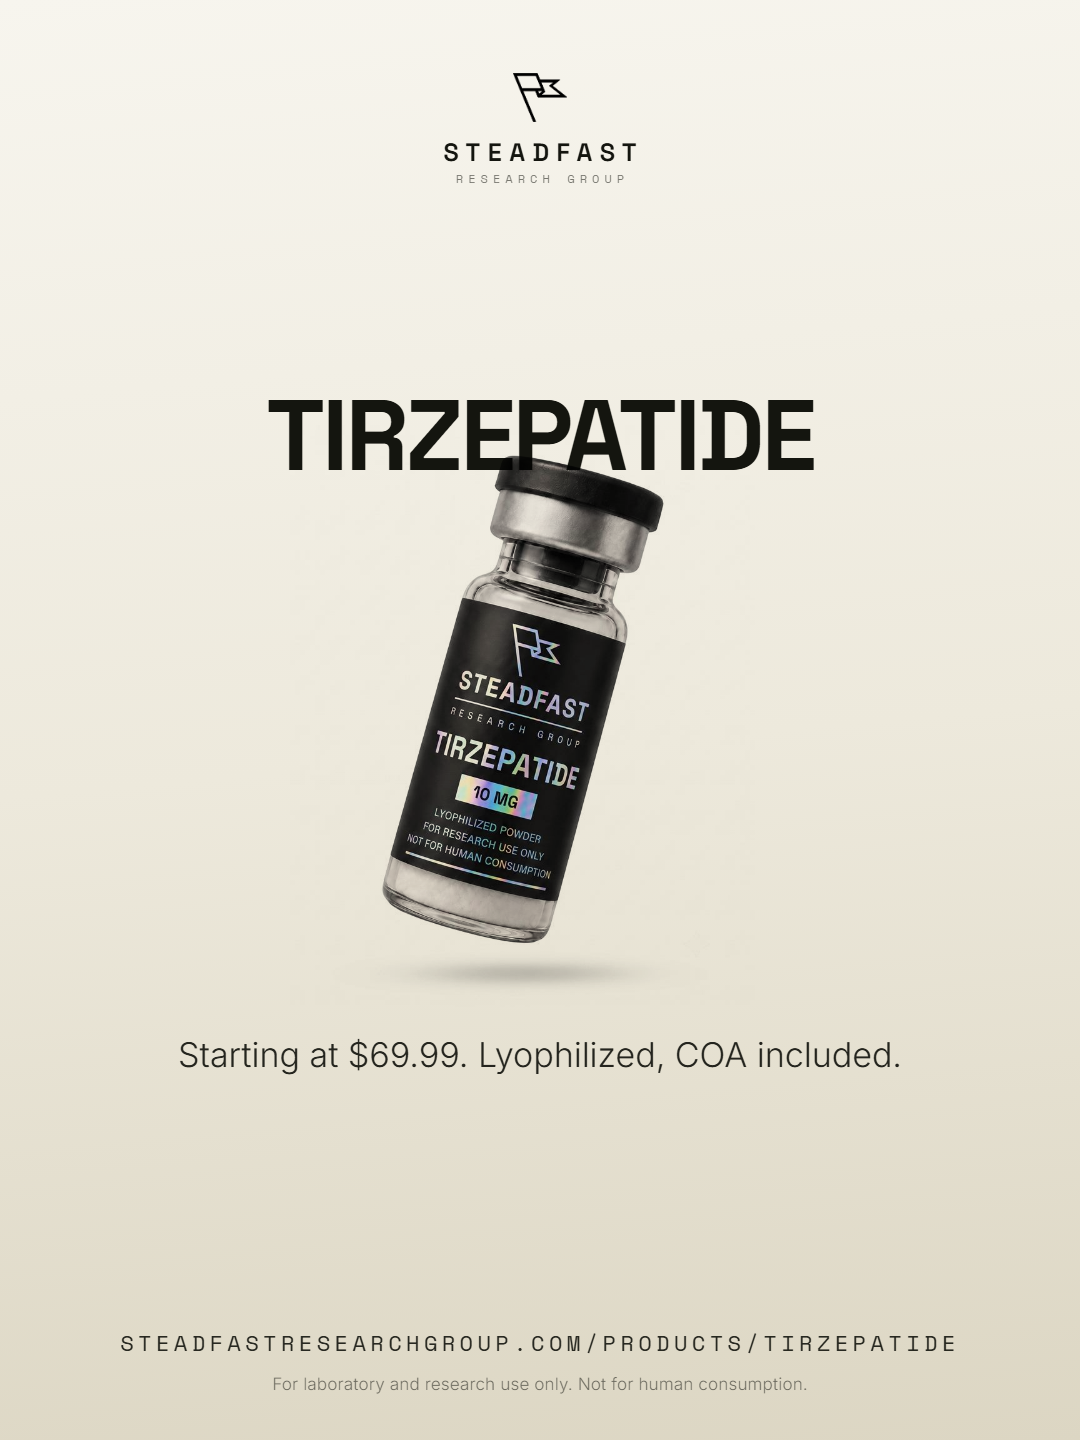
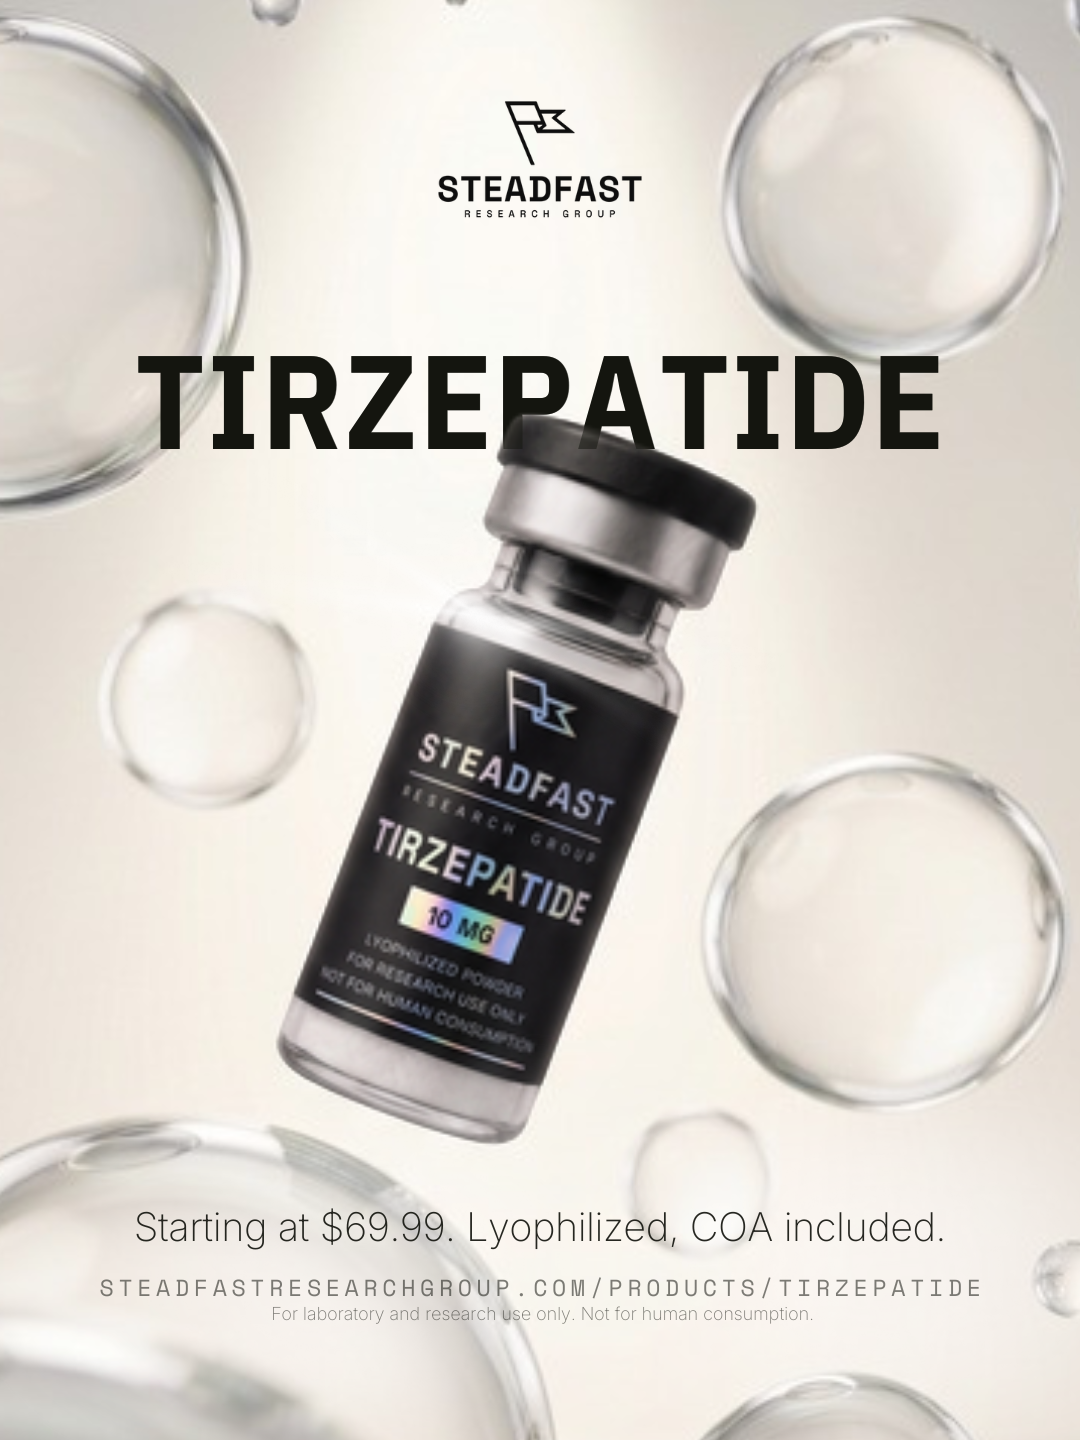
All ads Canva-mastered: R01-R05 + S01-S04 fresh Canva exports, every card shows the finished artwork

diff --git a/ads/pack.js b/ads/pack.js
@@ -151,9 +151,9 @@ var T = {
    ------------------------------------------------------------------------- */
 var FEED = [
 {
-  id:'R01', slug:'real-peptides', name:'Real peptides', palette:'field', tpl:'hero', safe:'paid',
+  id:'R01', slug:'real-peptides', name:'Real peptides', palette:'field', tpl:'img', safe:'paid',
   basedOn:'Enhanced — “REAL PEPTIDES / No gray market. No compromise.”',
-  art:{ hl:'Real<br>peptides.',
+  art:{ img:'exports/srg-ad01-r01-real-peptides-1080x1440.png', hl:'Real<br>peptides.',
         dek:'No gray market. No compromise.',
         vial:'srg-prod-bb10.jpg', url:'steadfastresearchgroup.com' },
   score:['Stops the scroll','Says it out loud'],
@@ -167,9 +167,9 @@ var FEED = [
   spec:'Modeled on the Enhanced ad: cream ground, giant headline, vial crossing the type. BPC blend vial per Blake&rsquo;s note to lead with the BPC label.'
 },
 {
-  id:'R02', slug:'uncompromising-purity', name:'Uncompromising purity', palette:'field', tpl:'duo', safe:'paid',
+  id:'R02', slug:'uncompromising-purity', name:'Uncompromising purity', palette:'field', tpl:'img', safe:'paid',
   basedOn:'Sunday — “Uncompromising Purity” two-vial hero',
-  art:{ hl:'Uncompromising<br>purity.',
+  art:{ img:'exports/srg-ad01-r02-uncompromising-purity-1080x1440.png', hl:'Uncompromising<br>purity.',
         cells:[['srg-prod-bb10.jpg','BPC-157 / TB-500',''],['srg-prod-cu50.jpg','GHK-CU','']],
         url:'steadfastresearchgroup.com' },
   score:['Stops the scroll','Screenshot-worthy'],
@@ -183,9 +183,9 @@ var FEED = [
   spec:'Modeled on the Sunday ad: two vials leaning together under a two-word headline. Names only under the glass, no prices — Sunday keeps it quiet.'
 },
 {
-  id:'R03', slug:'ten-off-sitewide', name:'10% off sitewide', palette:'carbon', tpl:'text', safe:'paid',
+  id:'R03', slug:'ten-off-sitewide', name:'10% off sitewide', palette:'carbon', tpl:'img', safe:'paid',
   basedOn:'Onyx Research — “20% OFF SITEWIDE / USE ONYX20”',
-  art:{ hl:'10% off<br>sitewide.',
+  art:{ img:'exports/srg-ad01-r03-ten-off-sitewide-1080x1440.png', hl:'10% off<br>sitewide.',
         dek:'High-quality research compounds. Fast, secure shipping across the U.S.',
         code:'USE STEADFAST10', url:'steadfastresearchgroup.com/products' },
   score:['Says it out loud'],
@@ -199,9 +199,9 @@ var FEED = [
   spec:'Modeled on the Onyx ad: dark ground, offer as the headline, code in a chip. Caption opens on Onyx&rsquo;s own &ldquo;Research, sourced right&rdquo; cadence.'
 },
 {
-  id:'R04', slug:'tirzepatide-price', name:'Tirzepatide, priced', palette:'field', tpl:'hero', safe:'paid',
+  id:'R04', slug:'tirzepatide-price', name:'Tirzepatide, priced', palette:'field', tpl:'img', safe:'paid',
   basedOn:'Brello — compound name huge + “plan starting at $166/month”',
-  art:{ hl:'Tirzepatide',
+  art:{ img:'exports/srg-ad01-r04-tirzepatide-price-1080x1440.png', hl:'Tirzepatide',
         dek:'Starting at $69.99. Lyophilized, COA included.',
         vial:'srg-prod-tr10.jpg', url:'steadfastresearchgroup.com/products/tirzepatide' },
   score:['Stops the scroll'],
@@ -215,9 +215,9 @@ var FEED = [
   spec:'Modeled on the Brello ad: compound name as the headline with the vial crossing it, price as the supporting line. RUO framing replaces Brello&rsquo;s telehealth plan language.'
 },
 {
-  id:'R05', slug:'quality-consistency', name:'Quality meets consistency', palette:'field', tpl:'hero', safe:'paid',
+  id:'R05', slug:'quality-consistency', name:'Quality meets consistency', palette:'field', tpl:'img', safe:'paid',
   basedOn:'Alpha Omega Peptide — “Where Quality Meets Consistency”',
-  art:{ hl:'Where quality<br>meets consistency.', hlSize:'sm',
+  art:{ img:'exports/srg-ad01-r05-quality-consistency-1080x1440.png', hl:'Where quality<br>meets consistency.', hlSize:'sm',
         dek:'Research peptides with a certificate of analysis on every lot.',
         vial:'srg-prod-hgh10.jpg', url:'steadfastresearchgroup.com' },
   score:['Says it out loud'],
@@ -255,8 +255,8 @@ var FEED = [
    ------------------------------------------------------------------------- */
 var STORIES = [
 {
-  id:'S01', slug:'fill-accuracy-story', name:'Fill accuracy, vertical', palette:'field', tpl:'metric', safe:'paid',
-  art:{ kick:'BPC-157 &middot; #151664', pre:'Label says <span class="strike">10 MG</span>', big:'10.23',
+  id:'S01', slug:'fill-accuracy-story', name:'Fill accuracy, vertical', palette:'field', tpl:'img', safe:'paid',
+  art:{ img:'exports/srg-ad01-s01-fill-accuracy-story-1080x1920.png', kick:'BPC-157 &middot; #151664', pre:'Label says <span class="strike">10 MG</span>', big:'10.23',
         bigsub:'Milligrams measured', dek:'We publish both. Even when the second number is lower.',
         vial:'srg-prod-bb10.jpg', url:'Swipe up &middot; /coa' },
   score:['Stops the scroll','Screenshot-worthy','New in the brain'],
@@ -270,8 +270,8 @@ var STORIES = [
   spec:'Same file as F02, recut vertical. Keep the 250px clear zones; the sticker link sits over the lower one, never over the footer strip.'
 },
 {
-  id:'S02', slug:'calculator-story', name:'Calculator, vertical', palette:'carbon', tpl:'text', safe:'paid',
-  art:{ hl:'mg/mL,<br>solved.',
+  id:'S02', slug:'calculator-story', name:'Calculator, vertical', palette:'carbon', tpl:'img', safe:'paid',
+  art:{ img:'exports/srg-ad01-s02-calculator-story-1080x1920.png', hl:'mg/mL,<br>solved.',
         dek:'Enter the vial’s mg and your solvent volume. Get the concentration for that vial. No signup, no gate.',
         code:'/tools', url:'Tap for the tool' },
   score:['Would share'],
@@ -285,8 +285,8 @@ var STORIES = [
   spec:'Carbon, type only, headline centred in the middle third so the sticker clears it.'
 },
 {
-  id:'S03', slug:'lineup-story', name:'Lineup, vertical', palette:'field', tpl:'duo', safe:'paid',
-  art:{ hl:'The whole shelf.',
+  id:'S03', slug:'lineup-story', name:'Lineup, vertical', palette:'field', tpl:'img', safe:'paid',
+  art:{ img:'exports/srg-ad01-s03-lineup-story-1080x1920.png', hl:'The whole shelf.',
         cells:[['srg-prod-bb10.jpg','BPC / TB-500','$49.99'],['srg-prod-cu50.jpg','GHK-CU','$34.99']],
         code:'STEADFAST10', url:'Tap to shop' },
   score:['Says it out loud'],
@@ -300,8 +300,8 @@ var STORIES = [
   spec:'Four vials in a 2×2 bled to the story edges, so each one renders around 520px wide — the biggest the product gets anywhere in the pack. Rotate which four across the flight.'
 },
 {
-  id:'S04', slug:'full-panel-story', name:'The panel, vertical', palette:'carbon', tpl:'list', safe:'organic',
-  art:{ kick:'One lot, ten lines', hl:'Purity is<br>one line.',
+  id:'S04', slug:'full-panel-story', name:'The panel, vertical', palette:'carbon', tpl:'img', safe:'organic',
+  art:{ img:'exports/srg-ad01-s04-full-panel-story-1080x1920.png', kick:'One lot, ten lines', hl:'Purity is<br>one line.',
         items:['Purity, HPLC','Identity','Net content','Arsenic','Cadmium','Lead','Mercury','Chromium','*Contaminant screen','Sterility, PCR'],
         url:'Tap for the report' },
   score:['Stops the scroll','Screenshot-worthy','New in the brain'],
